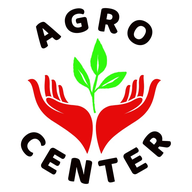
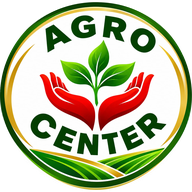
Yeni loqo
Claude-Session: https://claude.ai/code/session_01VC9ADy4DoVXZTbnNrgWPSZ

diff --git a/assets/style.css b/assets/style.css
@@ -180,7 +180,7 @@ p { margin: 0 0 1em; }
 /* footer */
 .ftr { background: #142912; color: rgba(255,255,255,.75); padding: 3rem 0 1.5rem; font-size: .95rem; }
 .ftr-in { display: grid; grid-template-columns: 1.4fr 1fr 1fr 1fr; gap: 2rem; }
-.ftr-brand img { background: var(--white); border-radius: 50%; padding: 4px; margin-bottom: 1rem; }
+.ftr-brand img { margin-bottom: 1rem; }
 .ftr h2 { font: 600 1rem var(--body); color: var(--white); margin: 0 0 .8rem; }
 .ftr ul { list-style: none; margin: 0; padding: 0; display: grid; gap: .45rem; }
 .ftr a { color: rgba(255,255,255,.85); text-decoration: none; }

diff --git a/build.py b/build.py
@@ -181,7 +181,7 @@ def header(lang, active, alts):
     return f'''<a class="skip" href="#main">{T["skip"][lang]}</a>
 <header class="hdr">
   <div class="wrap hdr-in">
-    <a class="brand" href="{url("home", lang)}"><img src="/assets/img/logo.png" alt="" width="44" height="44"><span>Agro Center</span></a>
+    <a class="brand" href="{url("home", lang)}"><img src="/assets/img/logo-sm.png" alt="" width="48" height="48"><span>Agro Center</span></a>
     <button class="menu-btn" aria-expanded="false" aria-controls="nav">{icon("menu")}<span>{T["menu"][lang]}</span></button>
     <div class="nav-wrap" id="nav">
       <nav class="nav" aria-label="{T["menu"][lang]}">{nav}</nav>
@@ -208,7 +208,7 @@ def footer(lang):
     social_html = f'<div><h2>{ {"az": "Sosial şəbəkələr", "en": "Social", "ru": "Соцсети"}[lang] }</h2><ul>{"".join(social)}</ul></div>' if social else ""
     return f'''<footer class="ftr">
   <div class="wrap ftr-in">
-    <div class="ftr-brand"><img src="/assets/img/logo.png" alt="Agro Center" width="72" height="72"><p>{e(tx(ABOUT["lead"], lang))}</p></div>
+    <div class="ftr-brand"><img src="/assets/img/logo-sm.png" alt="Agro Center" width="72" height="72"><p>{e(tx(ABOUT["lead"], lang))}</p></div>
     <div><h2>{T["products"][lang]}</h2><ul>{cats}</ul></div>
     <div><h2>{T["contact"][lang]}</h2><ul>{"".join(contact)}</ul></div>
     {social_html}
